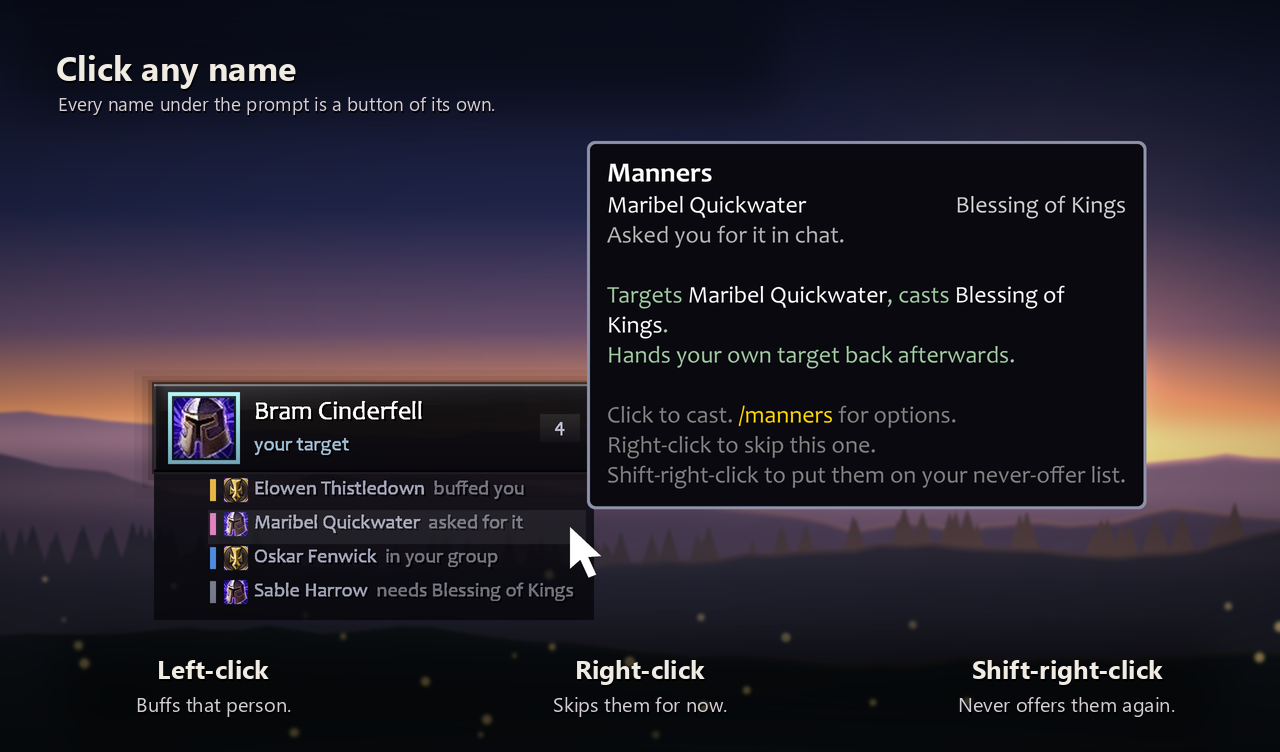
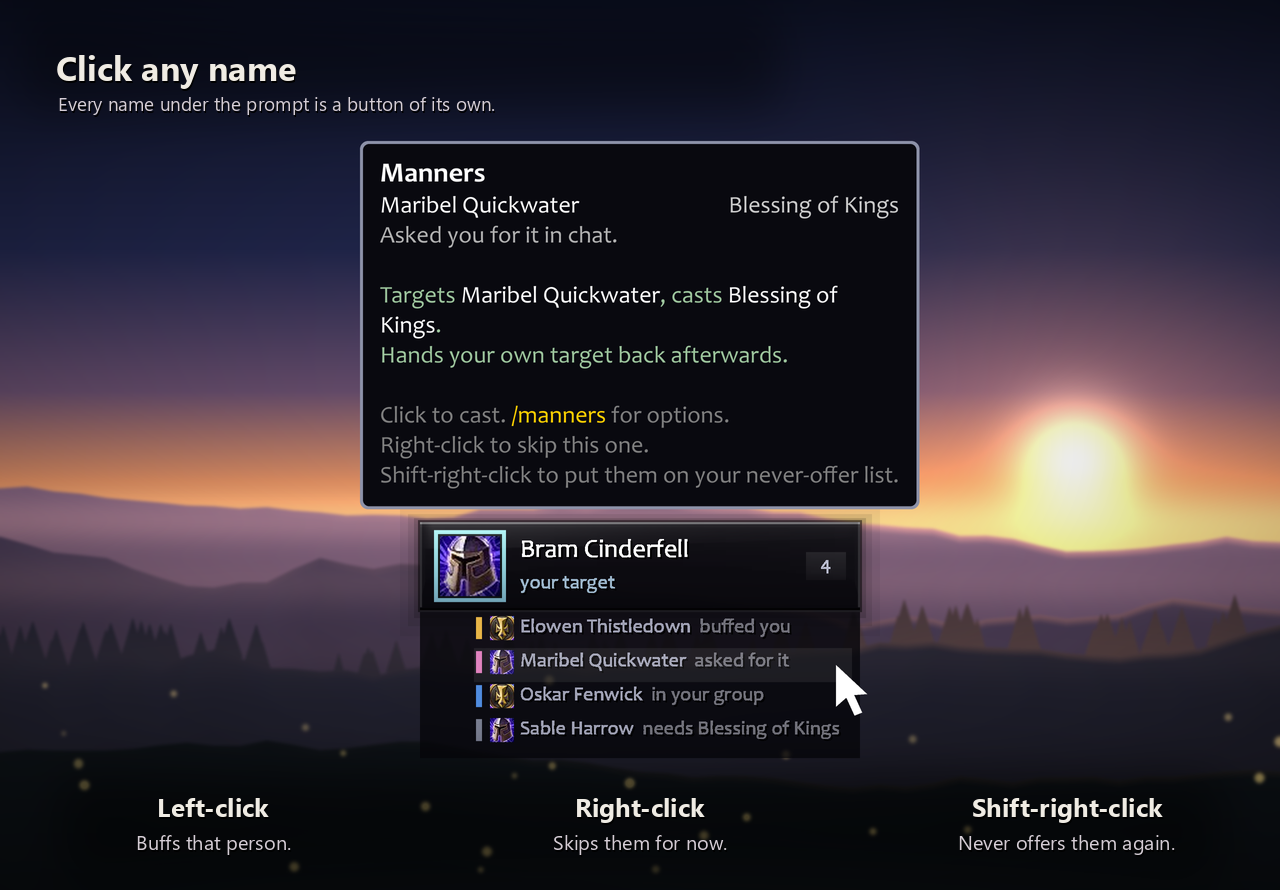
Notes for the cards, counts and display fixes; the list picture with the tooltip over the prompt

diff --git a/tools/make-screenshots.py b/tools/make-screenshots.py
@@ -460,6 +460,9 @@ local added = {
 		ns.MoveBuff("wisdom", -1)
 		owe(ns, "Elowen Thistledown", "DRUID")
 		ask(ns, "Maribel Quickwater", "nameplate2", "kings pls?")
+		-- The whole tooltip, which the picture's captions rest on: Short, the
+		-- default, says what the clicks do only with Shift held.
+		ns.db.profile.prompt.tooltip = "full"
 		settle(ns)
 		hover(ns, 2)
 	end },
@@ -1727,9 +1730,9 @@ def build_click(addon_dir, snaps):
                      for line in tip.get("lines", []))
     if CLICK_LIST[CLICK_ROW][0] not in said:
         problem("%s: the tooltip is not about %s" % (key, CLICK_LIST[CLICK_ROW][0]))
-    if tip.get("anchor") != "ANCHOR_RIGHT":
-        problem("%s: the tooltip is anchored %s; the picture hangs it from the name's top right"
-                % (key, tip.get("anchor")))
+    if tip.get("anchor") != "ANCHOR_NONE":
+        problem("%s: the tooltip is anchored %s; the picture sets it over the prompt, as "
+                "Prompt/Button.lua PlaceTooltip does beside the prompt" % (key, tip.get("anchor")))
     for words in ("Click to cast", "Right-click to skip", "Shift-right-click to put them on your never-offer"):
         if words not in said:
             problem("%s: the tooltip no longer says %r, which the picture's captions rest on"
@@ -2089,21 +2092,24 @@ def picture_click(snaps):
     shot = snap["shot"]
     tip = tooltip_sheet(shot["tip"], zoom)
     pointer = pointer_sheet(zoom)
-    # The name's button, in screen units; the tooltip hangs from its top right
-    # (ANCHOR_RIGHT, which is what the addon asks for).
+    # The name's button, in screen units, for the pointer. The tooltip stands
+    # over the prompt's own button, centred, TIP_GAP above it: where
+    # Prompt/Button.lua PlaceTooltip puts it for a prompt low on the screen
+    # with its list below, so it never covers the prompt or the list.
     left, bottom, right, top = PromptTree(snap).rect(shot["hover"]["id"])
-    corner = layer.at(right, top)
+    bl, bb, br, bt = PromptTree(snap).rect(snap["button"])
+    foot = layer.at((bl + br) / 2, bt + 6)
     first = 128
-    # The layer sits low enough that the tooltip, which stands above the name,
-    # clears the heading, and wide enough in that the tooltip clears the edge.
-    ly = max(first + 20, first + tip.h - corner[1] + 12)
-    span = max(lw, corner[0] + tip.w)
-    lx = (WIDTH - span) / 2
+    # The layer sits low enough that the tooltip over it clears the heading,
+    # and wide enough in that the tooltip clears the edges.
+    ly = max(first + 20, first + tip.h - foot[1] + 12)
+    lx = (WIDTH - lw) / 2
+    lx = min(max(lx, 40 + tip.w / 2 - foot[0]), WIDTH - 40 - tip.w / 2 - foot[0])
     caption = 130
     board = Board(ly + lh + caption, seed=47, sun=(0.84, 0.52))
     heading(board, "Click any name", "Every name under the prompt is a button of its own.")
     board.place(layer, lx, ly)
-    board.place(tip, lx + corner[0], ly + corner[1] - tip.h)
+    board.place(tip, lx + foot[0] - tip.w / 2, ly + foot[1] - tip.h)
     # The pointer rests at the end of the name's line, past its words, so
     # the names stay legible.
     tx, ty = layer.at(right - 8, (top + bottom) / 2)

diff --git a/CHANGELOG.md b/CHANGELOG.md
@@ -25,6 +25,13 @@
   controller or when its modifier buttons change, without a reload; and
   *Start here* only says to drop the macro when it is Manners' own on the
   cursor.
+- **The look cards speak your language.** The sample on each card under
+  *Look* is written in your game's language, not English.
+- **Long counts keep clear of the name.** A count of 100 or more no longer
+  crowds the name in any look, and on Arcane the count follows the key when
+  the key steps aside.
+- **A new resolution or UI scale** lays the prompt out again at once (after the
+  fight, in one), so its list hangs on the right side without a reload.
 
 ## 1.10.1
 
